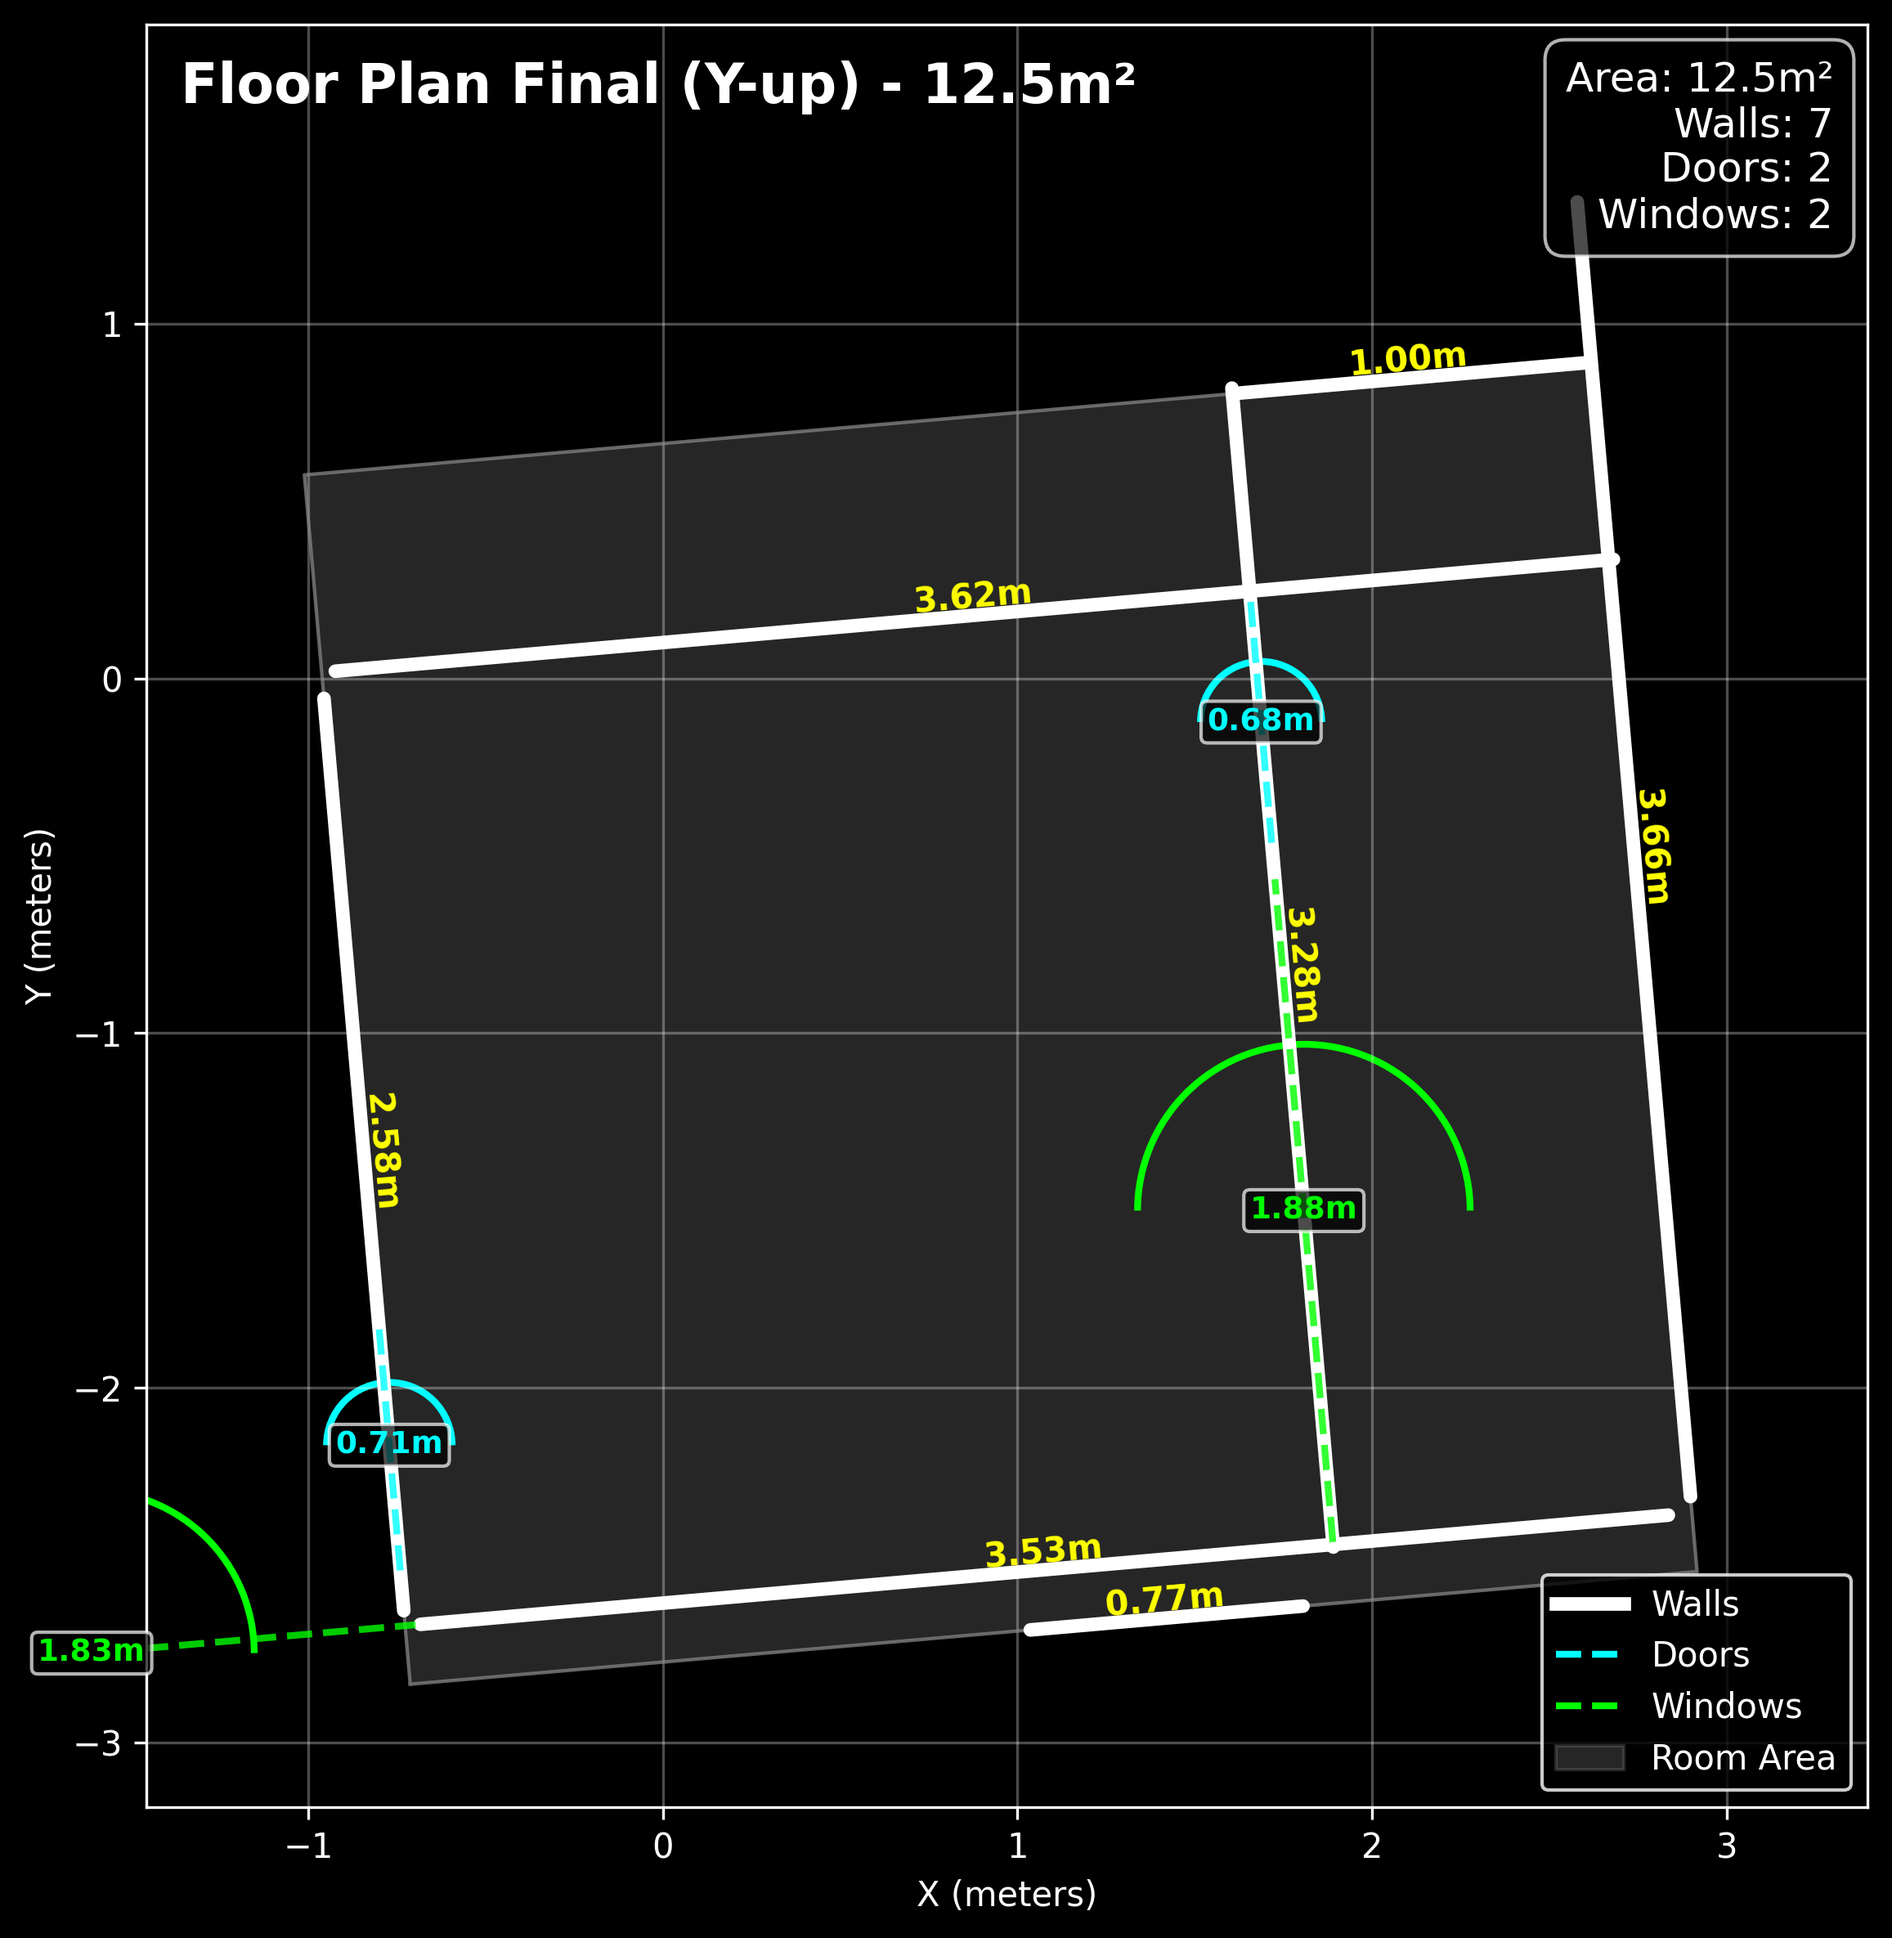
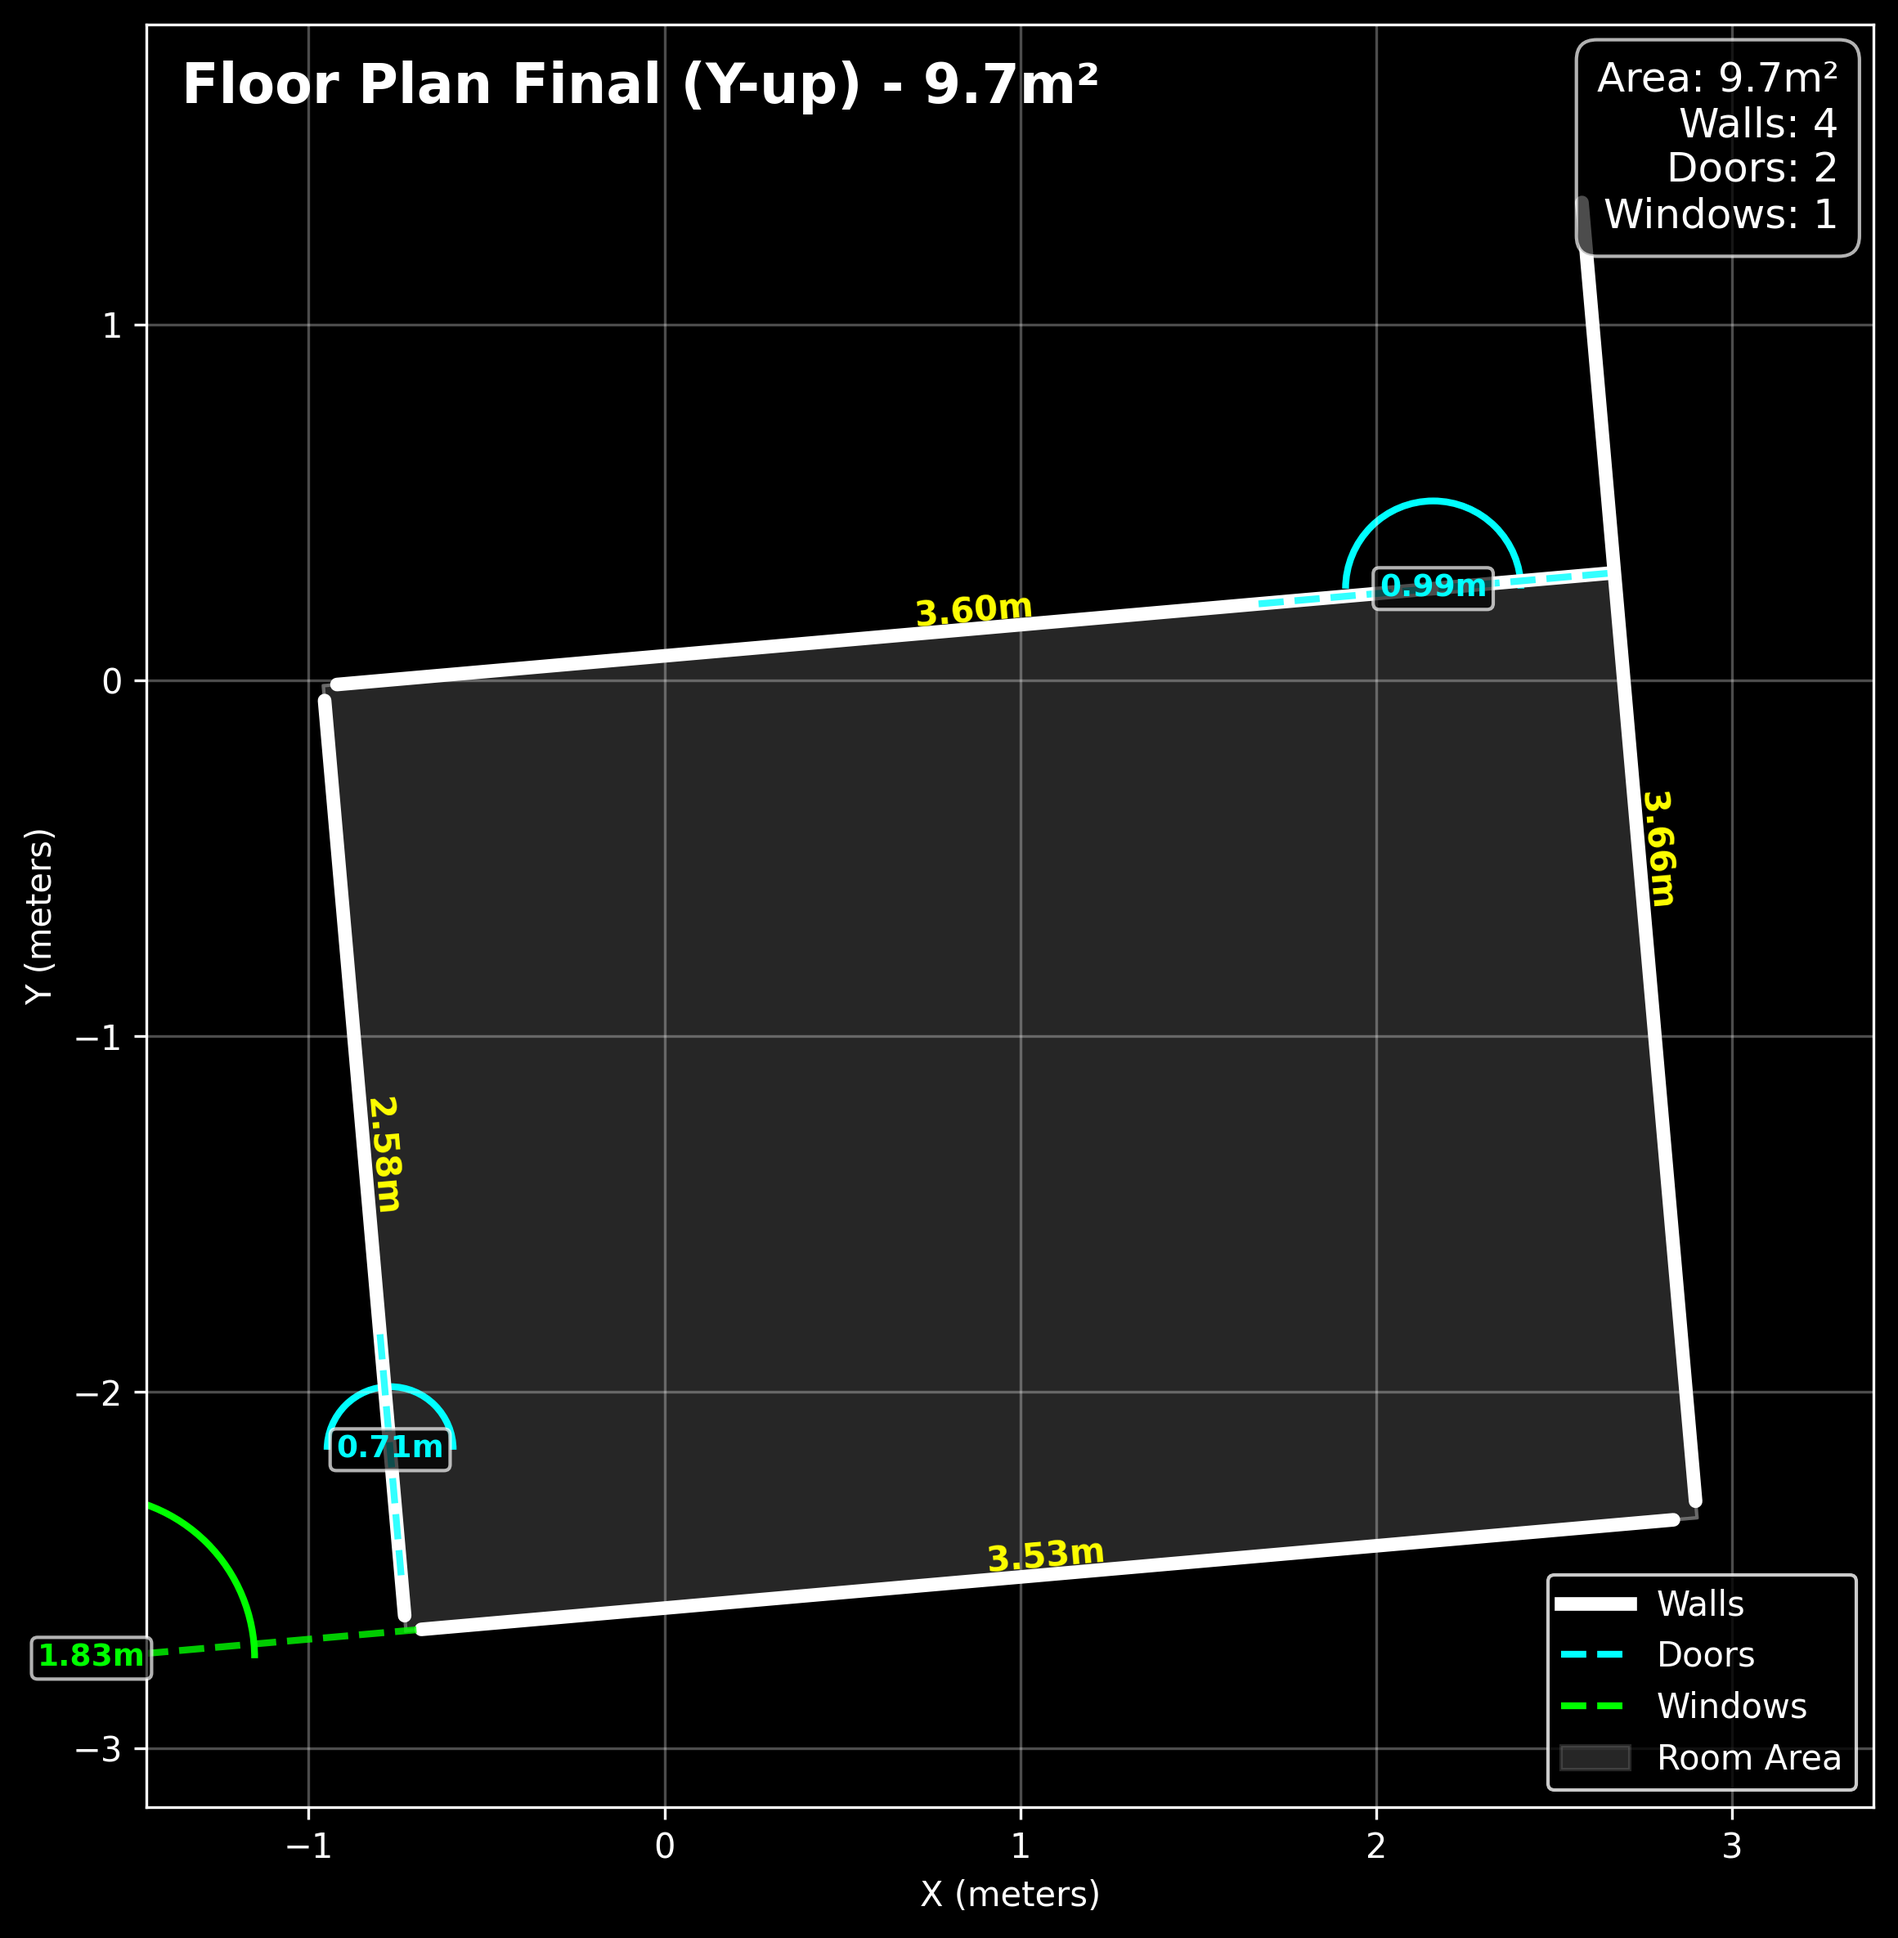
v11 v9port final: fix boundary wall selection, remove interior walls
Key fixes:
- Select longest wall per side instead of outermost position
  (prevents short fragments from being chosen over main walls)
- Remove all interior walls (single-room assumption)
- Results: 9.7m², 4 walls, 2 doors, 1 window on gdrive mesh
- Much cleaner floor plan with no interior partition

diff --git a/research/v11_v9port_final.py b/research/v11_v9port_final.py
@@ -241,30 +241,30 @@ def select_boundary_walls_strict(walls):
     
     boundary_walls = []
     
-    # For X walls: keep outermost plus any long interior walls
+    # For X walls: keep the LONGEST wall on each side (left half / right half)
     if len(x_walls) >= 2:
         x_walls.sort(key=lambda w: w['position'])
-        boundary_walls.append(x_walls[0])   # Leftmost
-        boundary_walls.append(x_walls[-1])  # Rightmost
-        
-        # Add significant interior walls (long walls that might have openings)
-        for wall in x_walls[1:-1]:
-            if wall['length'] > 2.5 or wall['nPoints'] > 50:  # Significant wall
-                boundary_walls.append(wall)
+        mid_x = (x_walls[0]['position'] + x_walls[-1]['position']) / 2
+        left_walls = [w for w in x_walls if w['position'] < mid_x]
+        right_walls = [w for w in x_walls if w['position'] >= mid_x]
+        if left_walls:
+            boundary_walls.append(max(left_walls, key=lambda w: w['length']))
+        if right_walls:
+            boundary_walls.append(max(right_walls, key=lambda w: w['length']))
                 
     elif len(x_walls) == 1:
         boundary_walls.extend(x_walls)
     
-    # For Z walls: keep outermost plus any long interior walls
+    # For Z walls: keep the LONGEST wall on each side (bottom half / top half)
     if len(z_walls) >= 2:
         z_walls.sort(key=lambda w: w['position'])
-        boundary_walls.append(z_walls[0])   # Bottommost
-        boundary_walls.append(z_walls[-1])  # Topmost
-        
-        # Add significant interior walls (long walls that might have openings)
-        for wall in z_walls[1:-1]:
-            if wall['length'] > 2.5 or wall['nPoints'] > 50:  # Significant wall
-                boundary_walls.append(wall)
+        mid_z = (z_walls[0]['position'] + z_walls[-1]['position']) / 2
+        bottom_walls = [w for w in z_walls if w['position'] < mid_z]
+        top_walls = [w for w in z_walls if w['position'] >= mid_z]
+        if bottom_walls:
+            boundary_walls.append(max(bottom_walls, key=lambda w: w['length']))
+        if top_walls:
+            boundary_walls.append(max(top_walls, key=lambda w: w['length']))
                 
     elif len(z_walls) == 1:
         boundary_walls.extend(z_walls)
